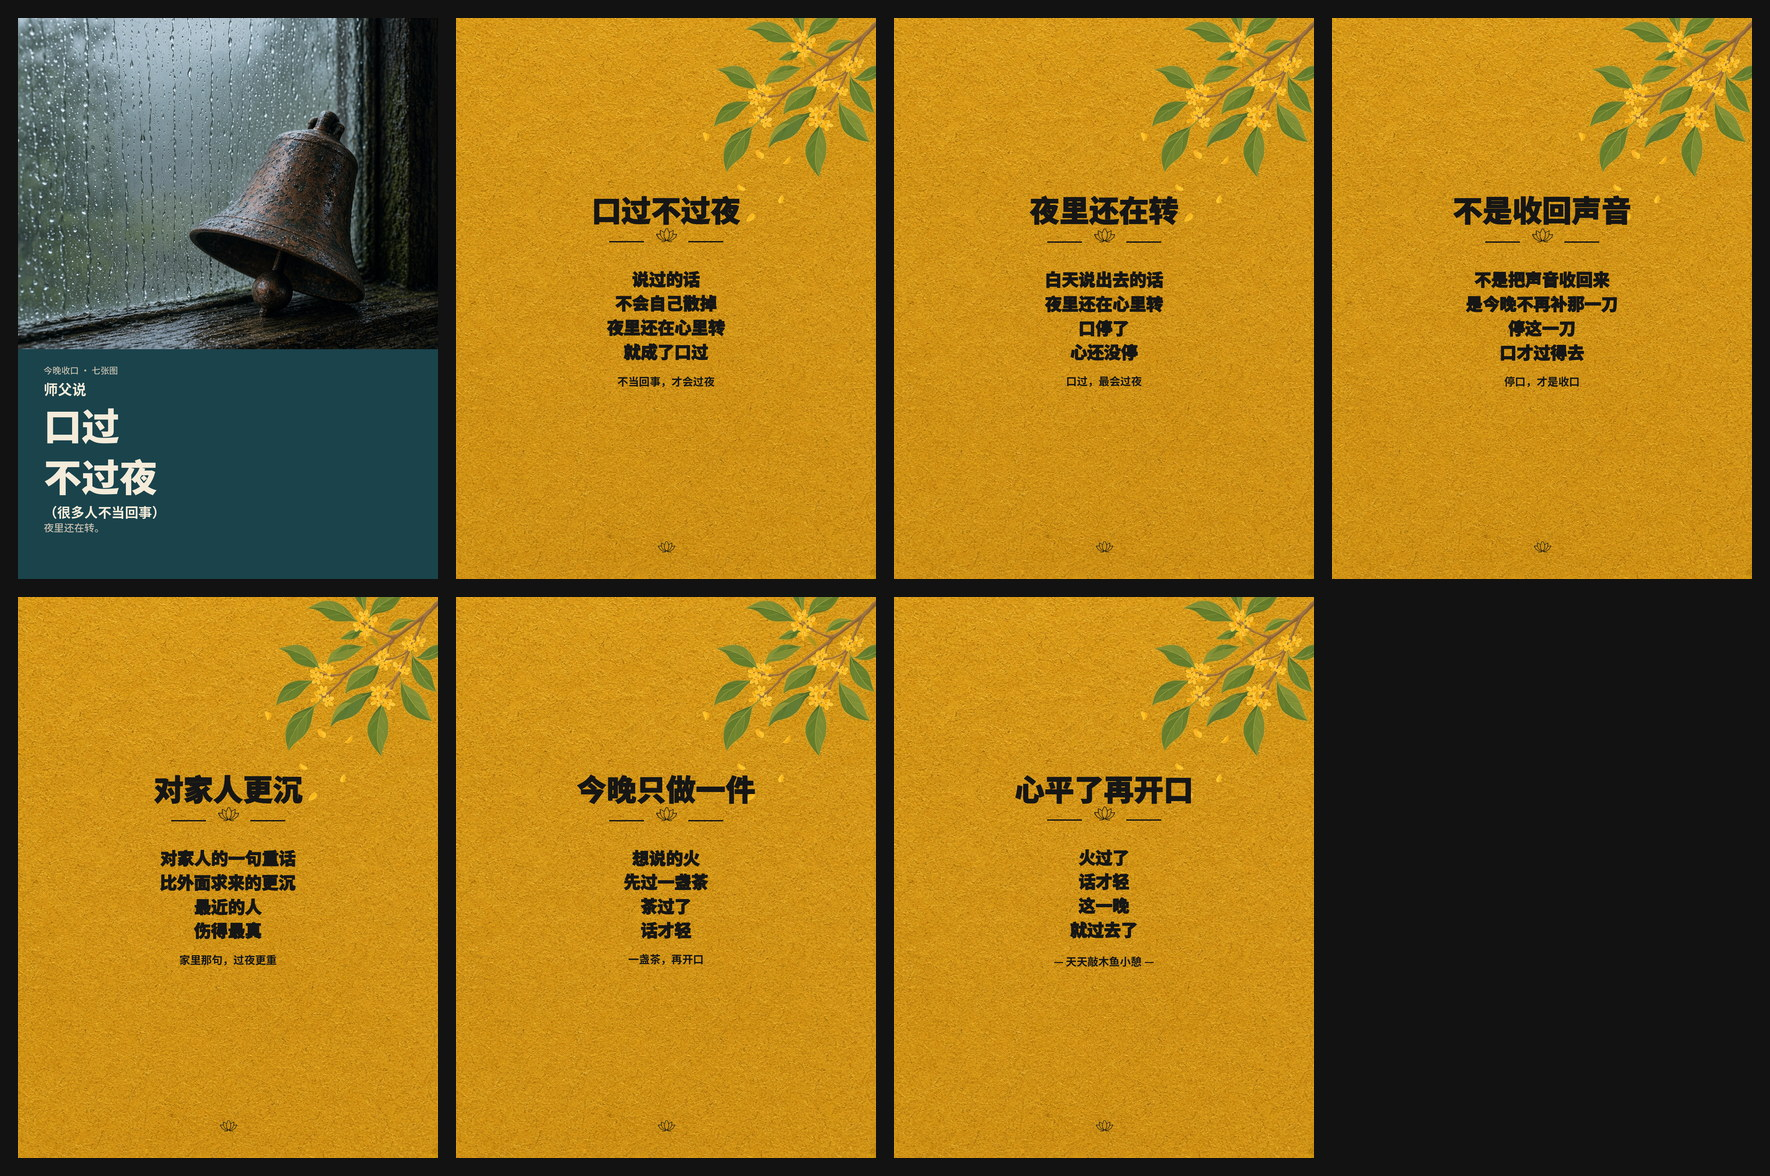
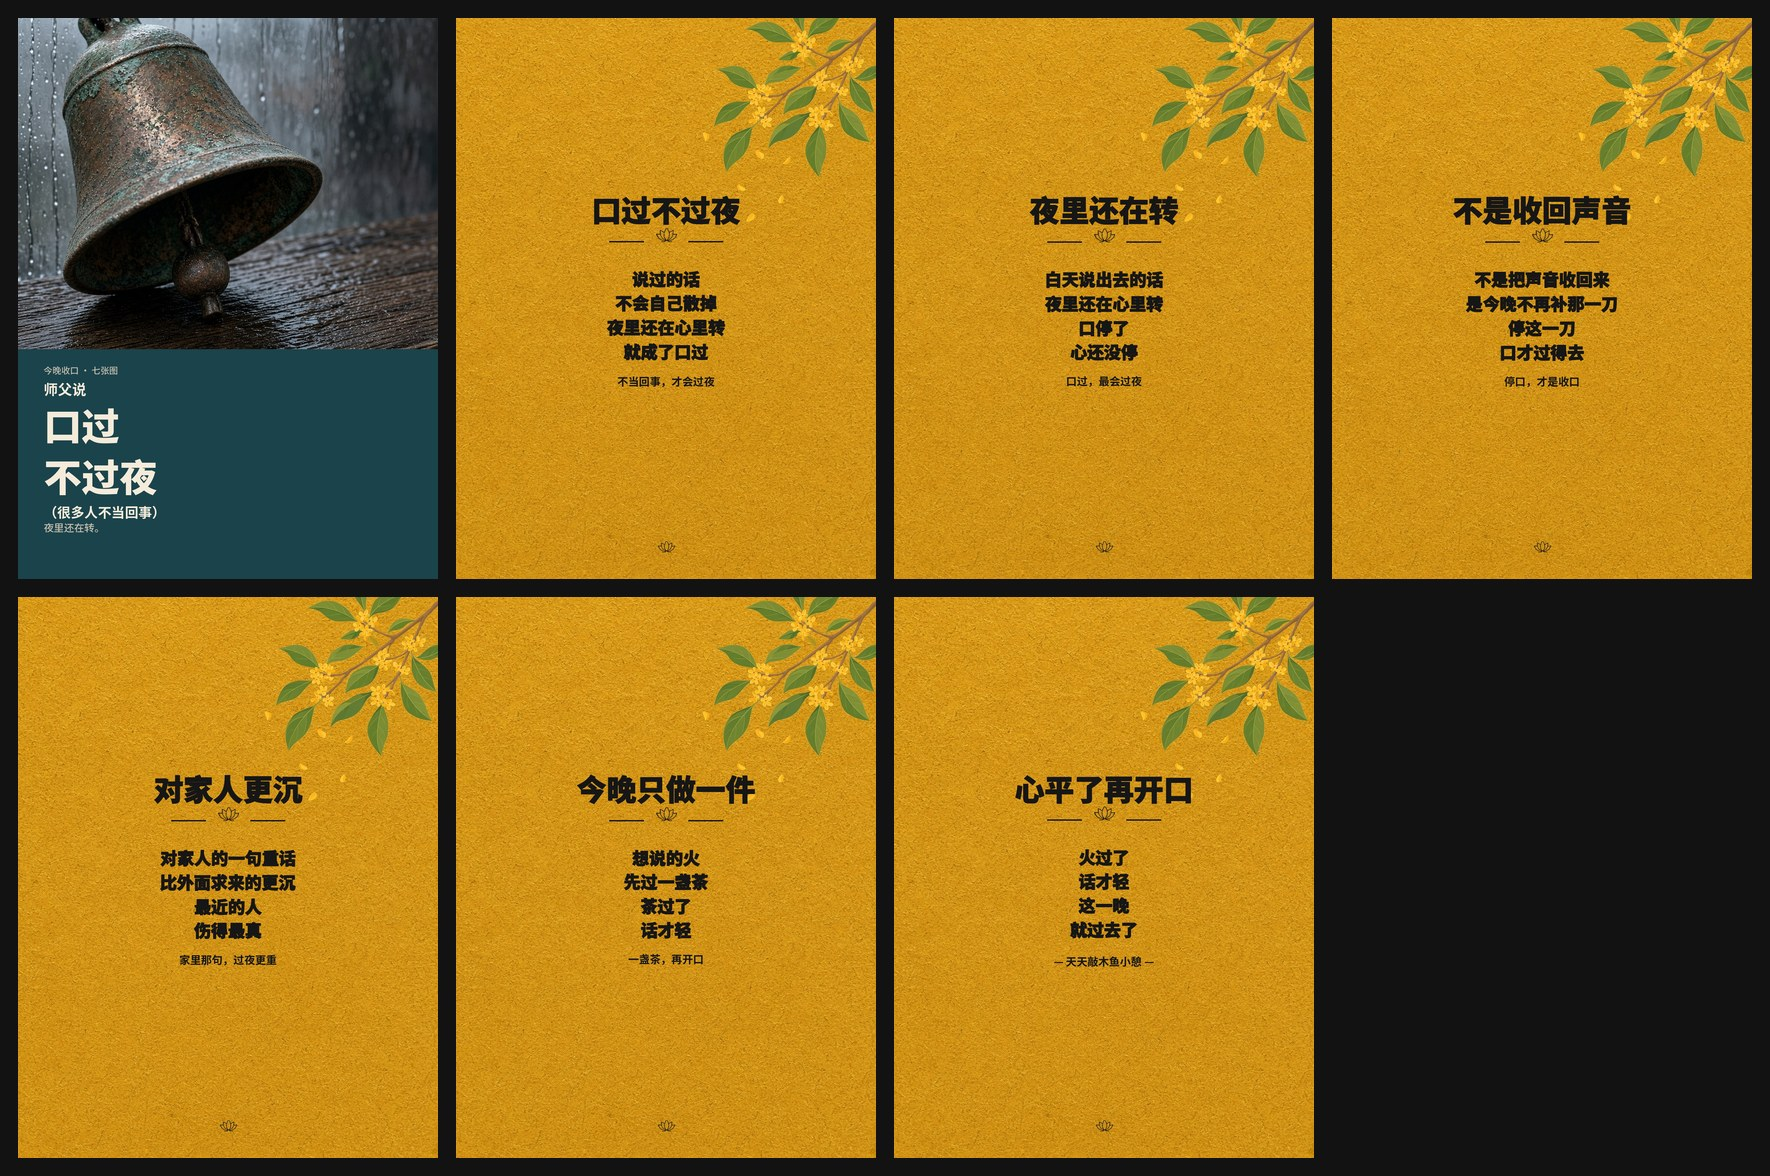
docs: set D official cover to v1a close-up clapper
User selected the near-bell windowsill crop as 01-title.jpg.

diff --git a/docs/xhs-cards/set-d/NOTE.md b/docs/xhs-cards/set-d/NOTE.md
@@ -61,7 +61,7 @@
 
 | 顺序 | 文件 | 卡片要点 |
 | --- | --- | --- |
-| 1 | `01-title.jpg` | 封面：窗台铜铃 + 黛青底；口过不过夜（很多人不当回事） |
+| 1 | `01-title.jpg` | 封面（近景铃舌 v1a）：口过不过夜（很多人不当回事） |
 | 2 | `02-kou-guo.jpg` | 口过不过夜 |
 | 3 | `03-night-turns.jpg` | 白天说出去的话，夜里还在心里转 |
 | 4 | `04-no-second-cut.jpg` | 不是把声音收回来，是今晚不再补那一刀 |
@@ -79,13 +79,13 @@
 
 | 候选 | 上半静物 | 下半色块 | 说明 |
 | --- | --- | --- | --- |
-| `01-title-v1a.jpg` | 近景铜铃侧倾、铃舌停在湿窗台 | 黛青 | 铃舌隐喻最狠；竖构图在色块处容易切到铃身 |
+| `01-title-v1a.jpg` **入选** | 近景铜铃侧倾、铃舌停在湿窗台 | 黛青 | 铃舌隐喻最狠；用户选定 |
 | `01-title-v1b.jpg` | 窗框挂铃 + 密雨玻璃 | 黛青 | 雨意最足、缩略图最好认；略偏「挂铃」而非「窗台」 |
-| `01-title-v1c.jpg` **入选** | 窗台旧铜铃被风吹偏，铃舌停住，玻璃细雨痕 | 黛青 | 最贴氛围句；雨痕、偏铃、窗台同时成立 |
+| `01-title-v1c.jpg` | 窗台旧铜铃被风吹偏，铃舌停住，玻璃细雨痕 | 黛青 | 雨痕、偏铃、窗台同时成立 |
 
 候选拼图：`../set-d-cover-candidates.jpg`  
 全套预览：`../set-d-contact.jpg`
 
-**入选 v1c：** 一句氛围里的四件事（窗台 / 旧铜铃 / 吹偏停舌 / 玻璃雨痕）都在画面里；黛青和套 C 赭褐、赢家深绿都拉开。v1a / v1b 保留备选：若首发 1h 点击偏弱，可只换封面重发（间隔 ≥18h）。
+**入选 v1a：** 用户选定近景铃舌方案。「口/铃声」落在停住的铃舌上，比完整窗景更狠；黛青和套 C 赭褐、赢家深绿都拉开。v1b / v1c 保留备选：若首发 1h 点击偏弱，可只换封面重发（间隔 ≥18h）。
 
 封面无二维码、无微信搜、无产品名。

diff --git a/docs/xhs-cards/README.md b/docs/xhs-cards/README.md
@@ -37,7 +37,7 @@
 
 | 顺序 | 文件 | 卡片要点 |
 | --- | --- | --- |
-| 1 | `set-d/01-title.jpg` | 封面：窗台铜铃 + 黛青底；口过不过夜（很多人不当回事） |
+| 1 | `set-d/01-title.jpg` | 封面：近景铃舌 + 黛青底；口过不过夜（很多人不当回事） |
 | 2 | `set-d/02-kou-guo.jpg` | 口过不过夜 |
 | 3 | `set-d/03-night-turns.jpg` | 白天说出去的话，夜里还在心里转 |
 | 4 | `set-d/04-no-second-cut.jpg` | 不是收回声音，今晚不再补那一刀 |
@@ -47,7 +47,7 @@
 
 文案与研报：`set-d/NOTE.md`  
 预览：`set-d-contact.jpg`  
-封面候选：`set-d-cover-candidates.jpg`（正式封面为窗台细雨铜铃 v1c）
+封面候选：`set-d-cover-candidates.jpg`（正式封面为近景铃舌 v1a）
 
 ## 使用约束
 
